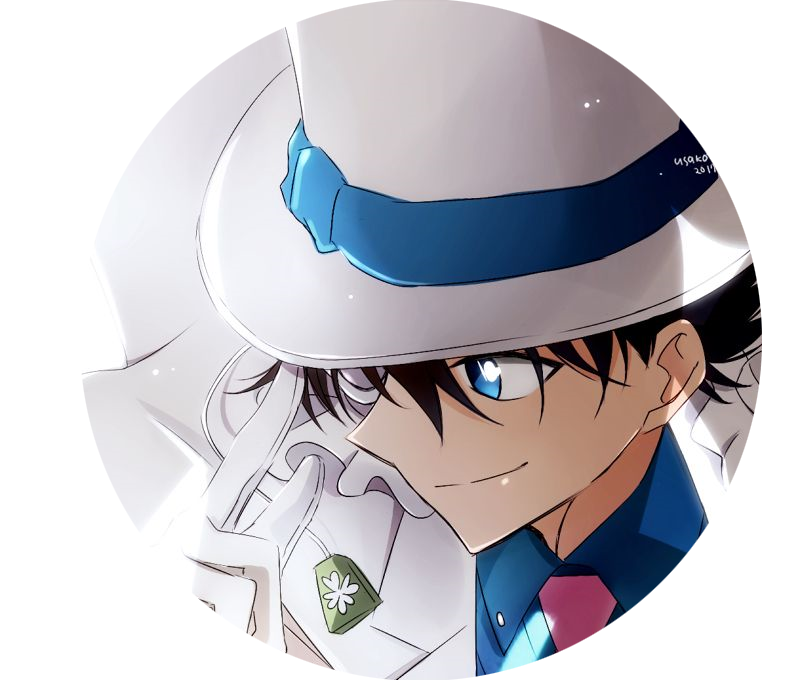
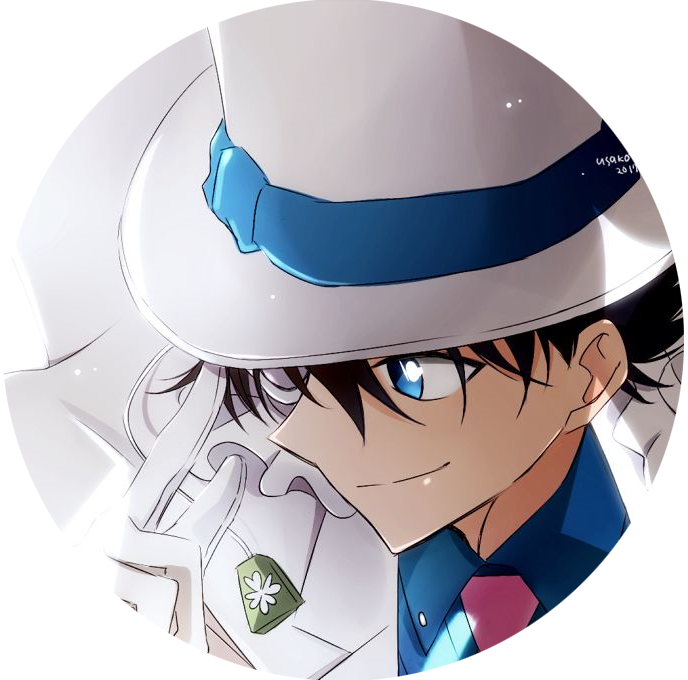
added intro and a bit of reactive styling

diff --git a/indexStyle.css b/indexStyle.css
@@ -1,32 +1,102 @@
 body {
-	/*background-color: #ff1a1a;*/
 	background-color: #29275c;
 	scroll-behavior: smooth;
+	position: relative;
+	margin-left: 0%;
+	margin-right: 0%;
+	/*Make content unselectable*/
+	-webkit-touch-callout: none;
+	-webkit-user-select: none;
+	-khtml-user-select: none;
+	-moz-user-select: none;
+	-ms-user-select: none;
+	user-select: none;
 }
 
-#banner {
-	margin-top: 5%;
+.centerContent {
+	display: flex;
+	flex-direction: column;
+	align-items: center;
+	align-content: center;
+	justify-content: center;
+}
+
+/*----------Banner----------*/
+.banner {
+	height: 100vh;
+	/*display: flex;
+	flex-direction: column;
+	align-items: center;
+	justify-content: center;*/
 }
 
 #profilePicture {
 	display: block;
 	margin-left: auto;
 	margin-right: auto;
-	width: 30%;
+	width: 25%;
 }
 
 .quote {
+	margin-top: 1%;
 	text-align: center;
 	color: whitesmoke;
 	font-family: 'Indie Flower', cursive;
 }
 
 #quoteText {
-	margin-top: 6%;
 	margin-bottom: 1%;
-	font-size: 3.5vw;
+	font-size: 4vw;
 }
 
 #quoteAuthor {
-	font-size: 1.5vw;
+	font-size: 2.5vw;
 }
+
+/*----------About Me----------*/
+.aboutMe {
+	display: flex;
+	height: 50vh;
+	margin-top: 10%;
+	margin-bottom: 10%;
+}
+
+#aboutMeLeft {
+	width: 30%;
+	display: flex;
+	flex-direction: column;
+	align-items: center;
+	justify-content: center;
+	/*background-color: #575757;*/
+}
+
+#aboutMeRight{
+	width: 70%;
+	background-color: #a3a3a3;
+	font-family: 'Cinzel', serif;
+	font-size: 2vw;
+}
+
+#smallProfilePicture {
+	width: 75%;
+	margin: 3%;
+}
+
+#username {
+	margin: auto;
+	color: whitesmoke;
+	font-family: 'Indie Flower', cursive;
+	font-size: 2vw;
+}
+
+/*----------Anime Corner----------*/
+/*.animeCorner{
+
+}
+
+#animeCornerBackground {
+	display: block;
+	margin-left: auto;
+	margin-right: auto;
+	width: 40vw;
+}*/

diff --git a/index.html b/index.html
@@ -2,18 +2,41 @@
 <html>
 <head>
 	<title>Winter is Here</title>
+	<meta name="viewport" content="width=device-width, initial-scale=1.0">
 	<link rel="preconnect" href="https://fonts.googleapis.com">
 	<link rel="preconnect" href="https://fonts.gstatic.com" crossorigin>
 	<link href="https://fonts.googleapis.com/css2?family=Indie+Flower&display=swap" rel="stylesheet">
+	<link href="https://fonts.googleapis.com/css2?family=Cinzel&display=swap" rel="stylesheet">
 	<link rel="stylesheet" type="text/css" href="indexStyle.css">
 </head>
 
 <body>
-	<div id="banner">
+	<div class="banner centerContent">
 		<img src="./images/kaito.png" alt="Kaito Kid" id="profilePicture">
-		<p class="quote" id="quoteText">"Live in the Present, Learn from the Past"</p>
+		<p class="quote" id="quoteText">"Look to the Future,<br> Live in the Present,<br> Learn from the Past"</p>
 		<p class="quote" id="quoteAuthor">-AbsoluteWinter</p>
 	</div>
+
+	<div class="aboutMe">
+		<div id="aboutMeLeft">
+			<div class="centerContent">
+				<img src="./images/kaito.png" alt="Kaito Kid" id="smallProfilePicture">
+				<p class="quote" id="username">AbsoluteWinter</p>
+			</div>
+		</div>
+		<div id="aboutMeRight" class="centerContent">
+			<p>I'm just a normal guy you can find anywhere.<br>
+				A bit of an introvert, but I still do love to talk.<br>
+				I love doing things that seems fun to me.</p>
+		</div>
+	</div>
+
+	<!-- <div class="AnimeCorner">
+		<p>Bla bla bla~~</p>
+		<div>
+			<img src="./images/natsume2.jpg" alt="natsume" id="animeCornerBackground">
+		</div>
+	</div> -->
 </body>
 
 </html>
